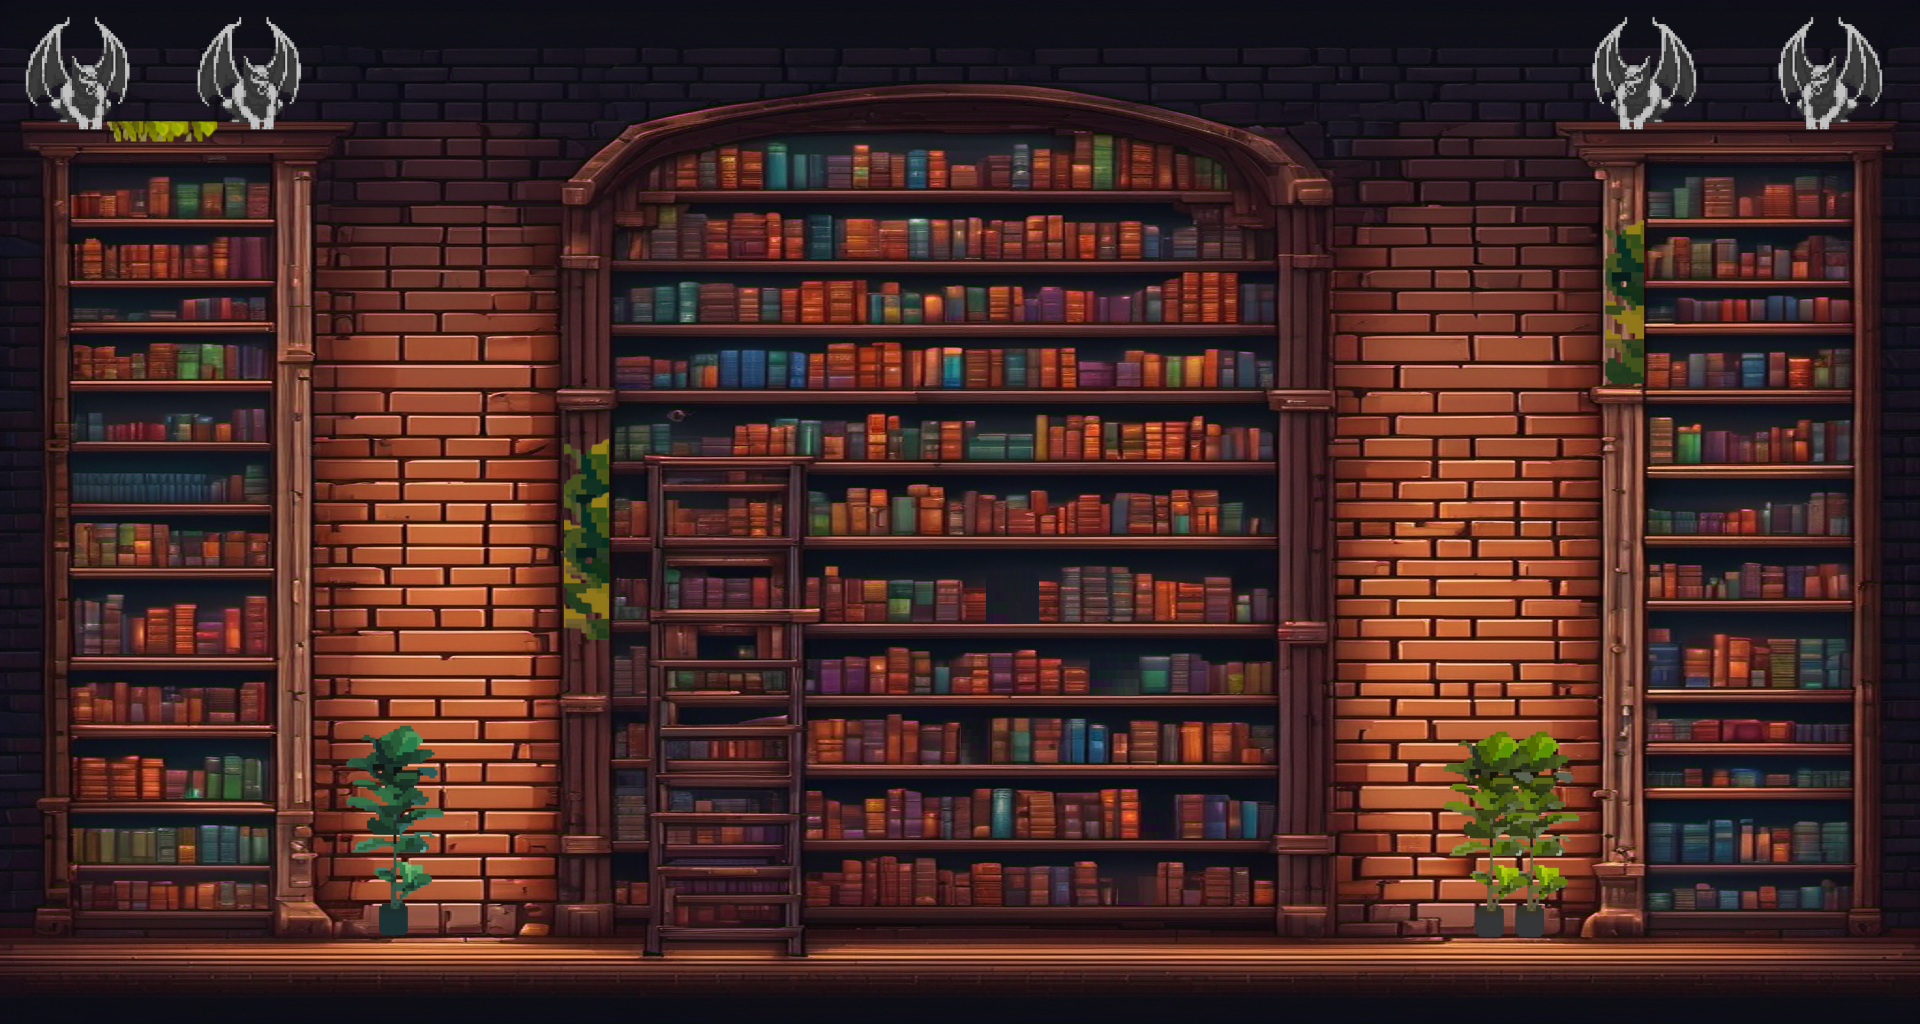
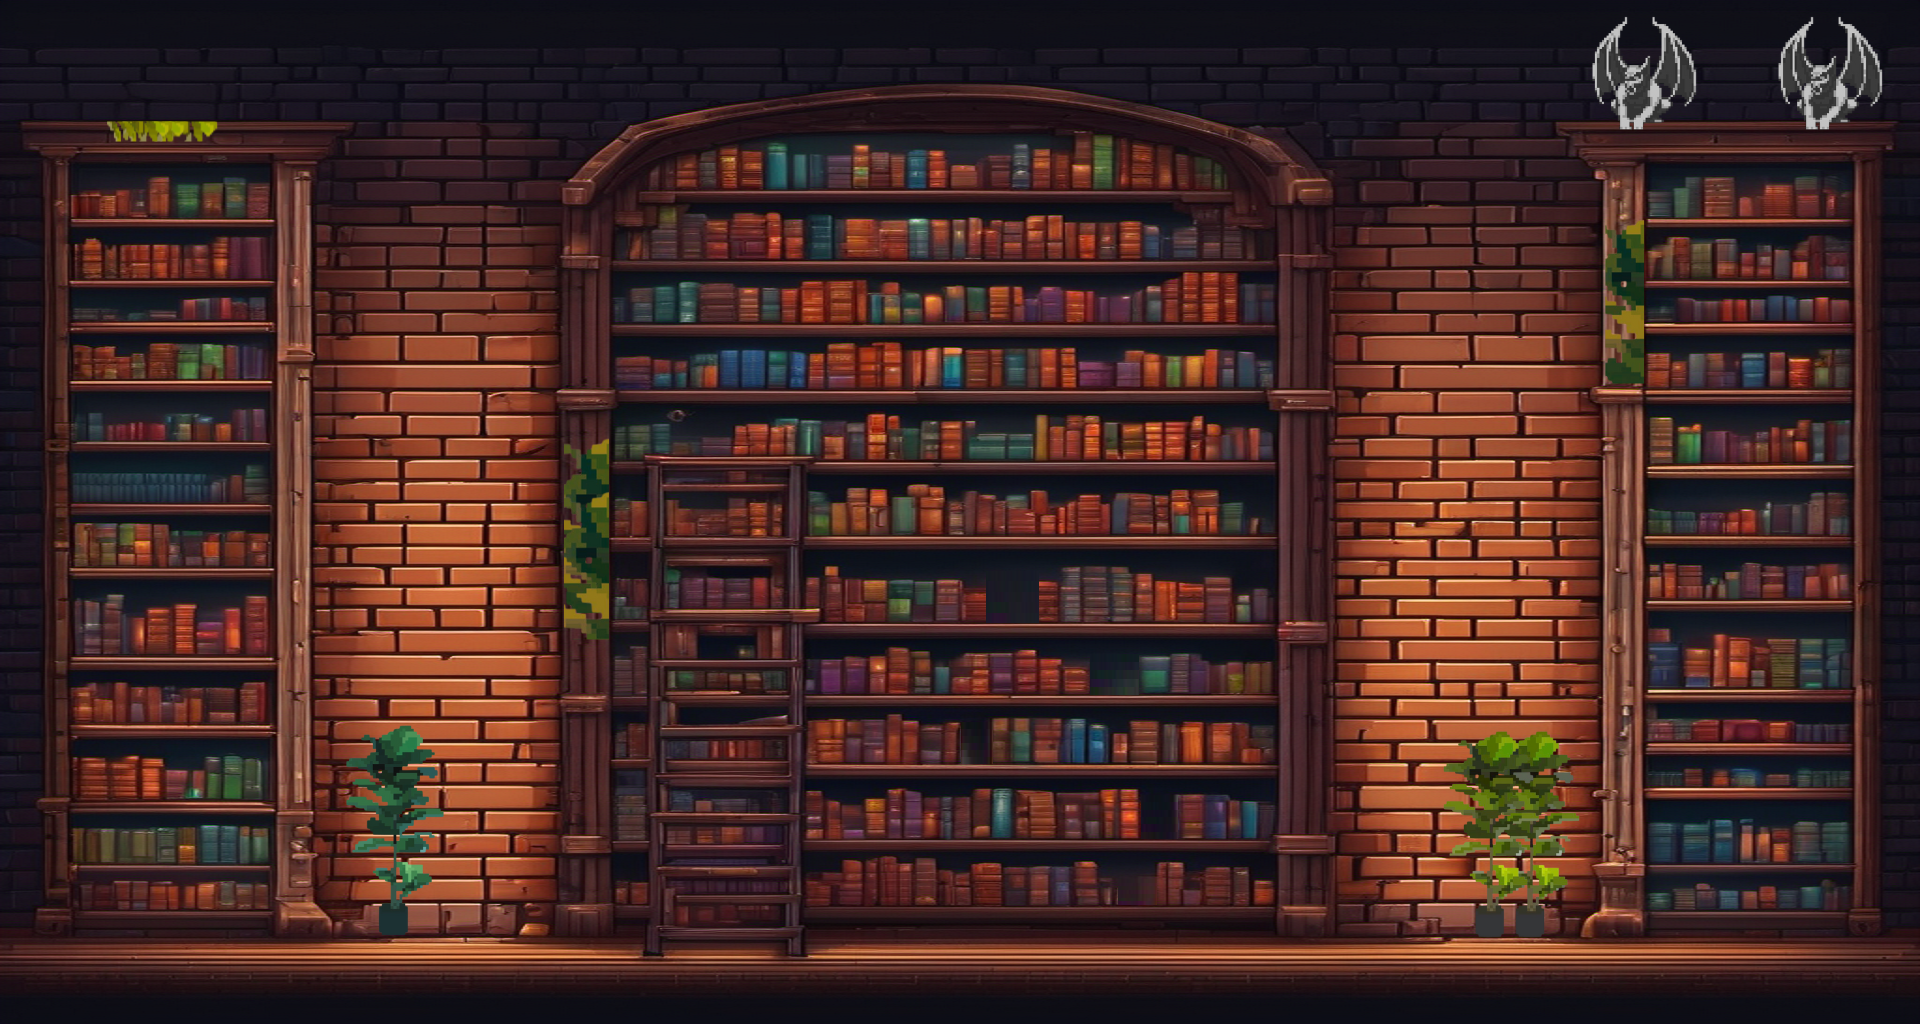
remove garg + fix 1440px

Changed region(s): [[0.0, 0.0312, 0.1562, 0.125]]

diff --git a/scripts/main.js b/scripts/main.js
@@ -48,19 +48,19 @@ document.addEventListener('DOMContentLoaded', () => {
 
     let shelves;
         // this was for laptop size, between 1536-1919 x 715-1080
-        if (window.innerWidth >= 1536 && window.innerWidth <= 1919 && window.innerHeight >= 781 && window.innerHeight <= 1080) {
+        if (window.innerWidth > 1536 && window.innerWidth <= 1919 && window.innerHeight >= 781 && window.innerHeight <= 1080) {
             shelves = [87.5, 80.8, 73.3, 66.3, 59.3, 51, 43.3];
             
             // laptop size, between 1320-1535 x 600-714     
         } else if (window.innerWidth >= 1320 && window.innerWidth <= 1535 && window.innerHeight >= 600 && window.innerHeight <= 780) {
-            shelves = [86.5, 80.8, 73.3, 66.3, 59.3, 51, 44.3];
+            shelves = [87, 80.8, 73.3, 66.3, 59.3, 51, 44.3];
             
         } else if (window.innerWidth == 1536 && window.innerHeight == 715) {
-            shelves = [87.5, 80.8, 73.3, 66.3, 59.3, 51, 43.3];
+            shelves = [88, 80.8, 73.3, 66.3, 59.3, 51, 43.3];
 
         } else {
             shelves = [89, 82.5, 75, 68, 61, 52.5, 45.3];
-        } console.log(window.innerWidth, window.innerHeight, shelves)
+        } 
     // desktop size was: const shelves = [89, 82.5, 75, 68, 61, 52.5, 45.3];
     // const shelves = [87.5, 80.8, 73.3, 66.3, 59.3, 51, 43.3];
 
